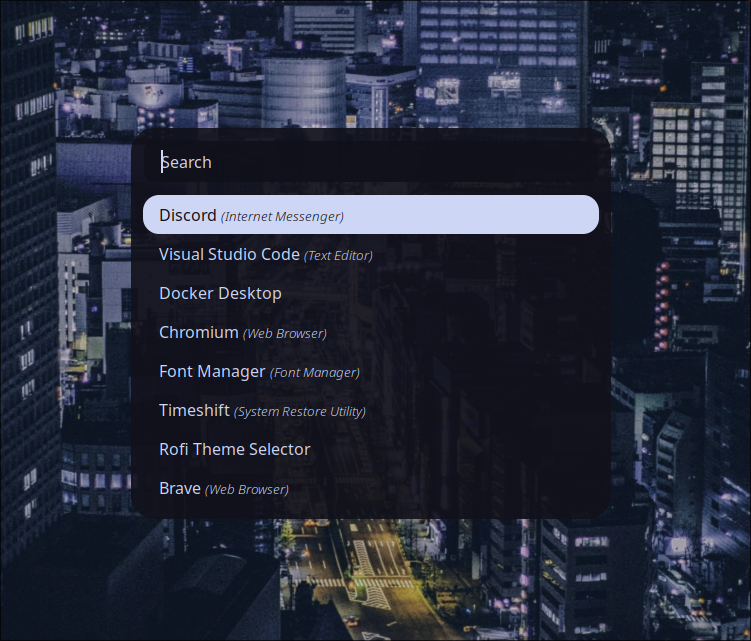
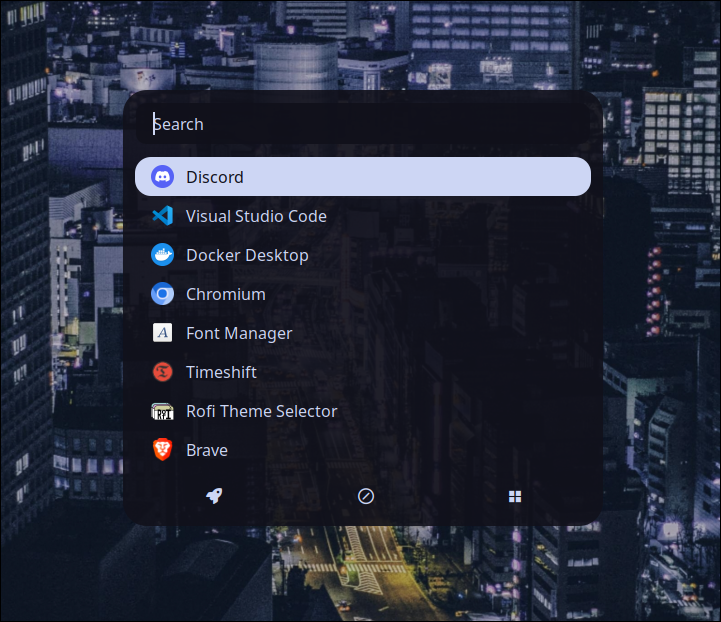
обновлен конфиг для rofi (drun, run, window)

diff --git a/README.md b/README.md
@@ -148,7 +148,7 @@ sudo pacman -S thefuck
 
 
 ## Fastfetch
-Вывод информации о системе [[конфиг](./Configs/fastfetch/)]
+В объяснении не нуждается [[конфиг](./Configs/fastfetch/)]
 
 <details><summary><b>Скриншот</b></summary>
 
